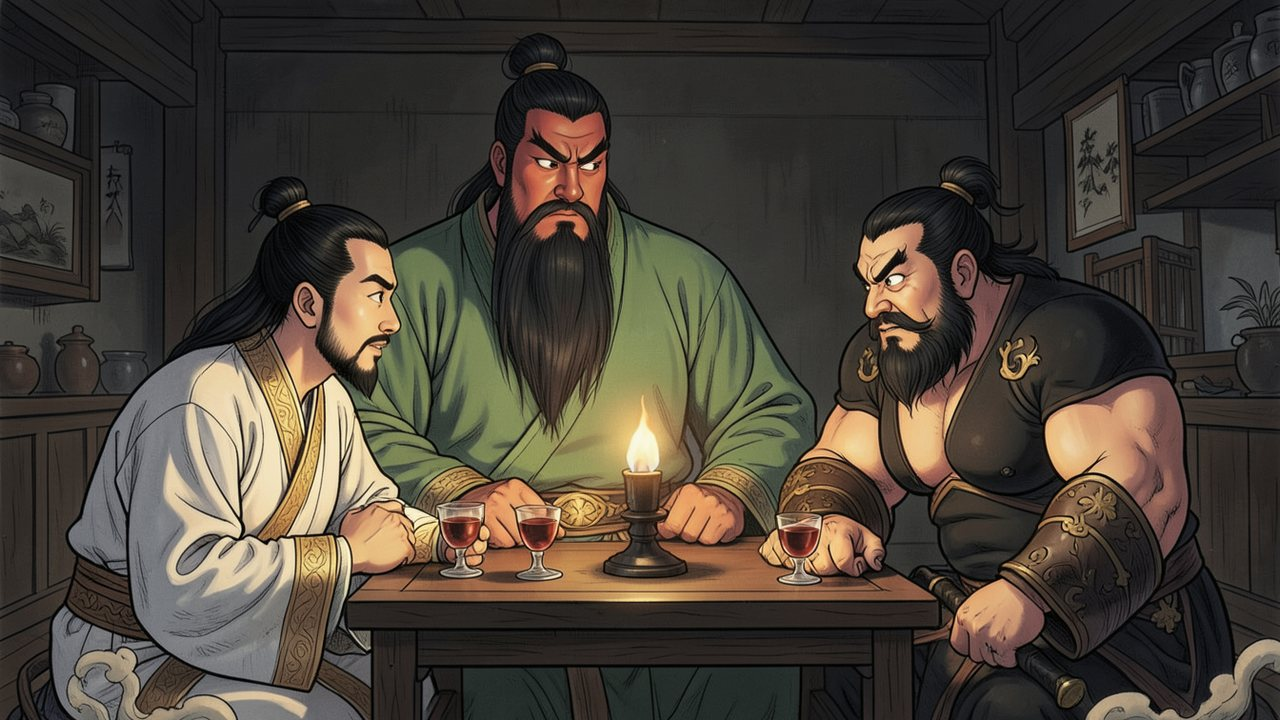
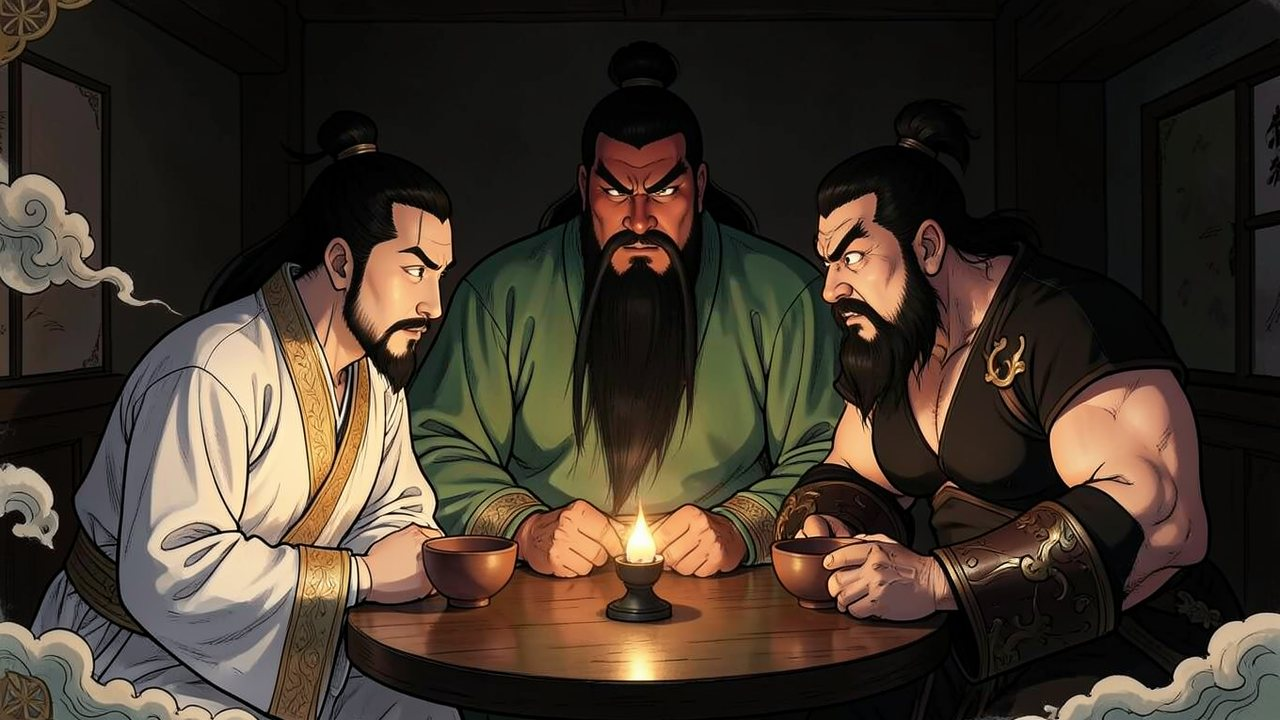
Stills: inn_a and inn_b repainted (clay bowls, oil lamp, bare walls, all three brothers)
Claude-Session: https://claude.ai/code/session_01CG7crrkzqt1vmaeQ7L7w6w

diff --git a/tk-cutscene.js b/tk-cutscene.js
@@ -605,7 +605,7 @@ const WorldCutscene = {
   // the prop atlas (props, emote bubbles, gift icons), loaded once per game
   // the stills that exist (tools/gen_stills.py writes assets/tk/stills/stills.json), fetched once
   stillIndex() {
-    if (!this._stills) this._stills = fetch("assets/tk/stills/stills.json?v=9").then(r => r.ok ? r.json() : {}).catch(() => ({}));
+    if (!this._stills) this._stills = fetch("assets/tk/stills/stills.json?v=10").then(r => r.ok ? r.json() : {}).catch(() => ({}));
     return this._stills;
   },
   load(scene) {

diff --git a/index.html b/index.html
@@ -28,7 +28,7 @@
 <script src="tk-town.js?v=19"></script>
 <script src="tk-world.js?v=71"></script>
 <script src="tk-items.js?v=5"></script>
-<script src="tk-cutscene.js?v=25"></script>
+<script src="tk-cutscene.js?v=26"></script>
 <script src="tk-music.js?v=4"></script>
 <script src="tk-travel.js?v=7"></script>
 <script src="app.js?v=51"></script>
